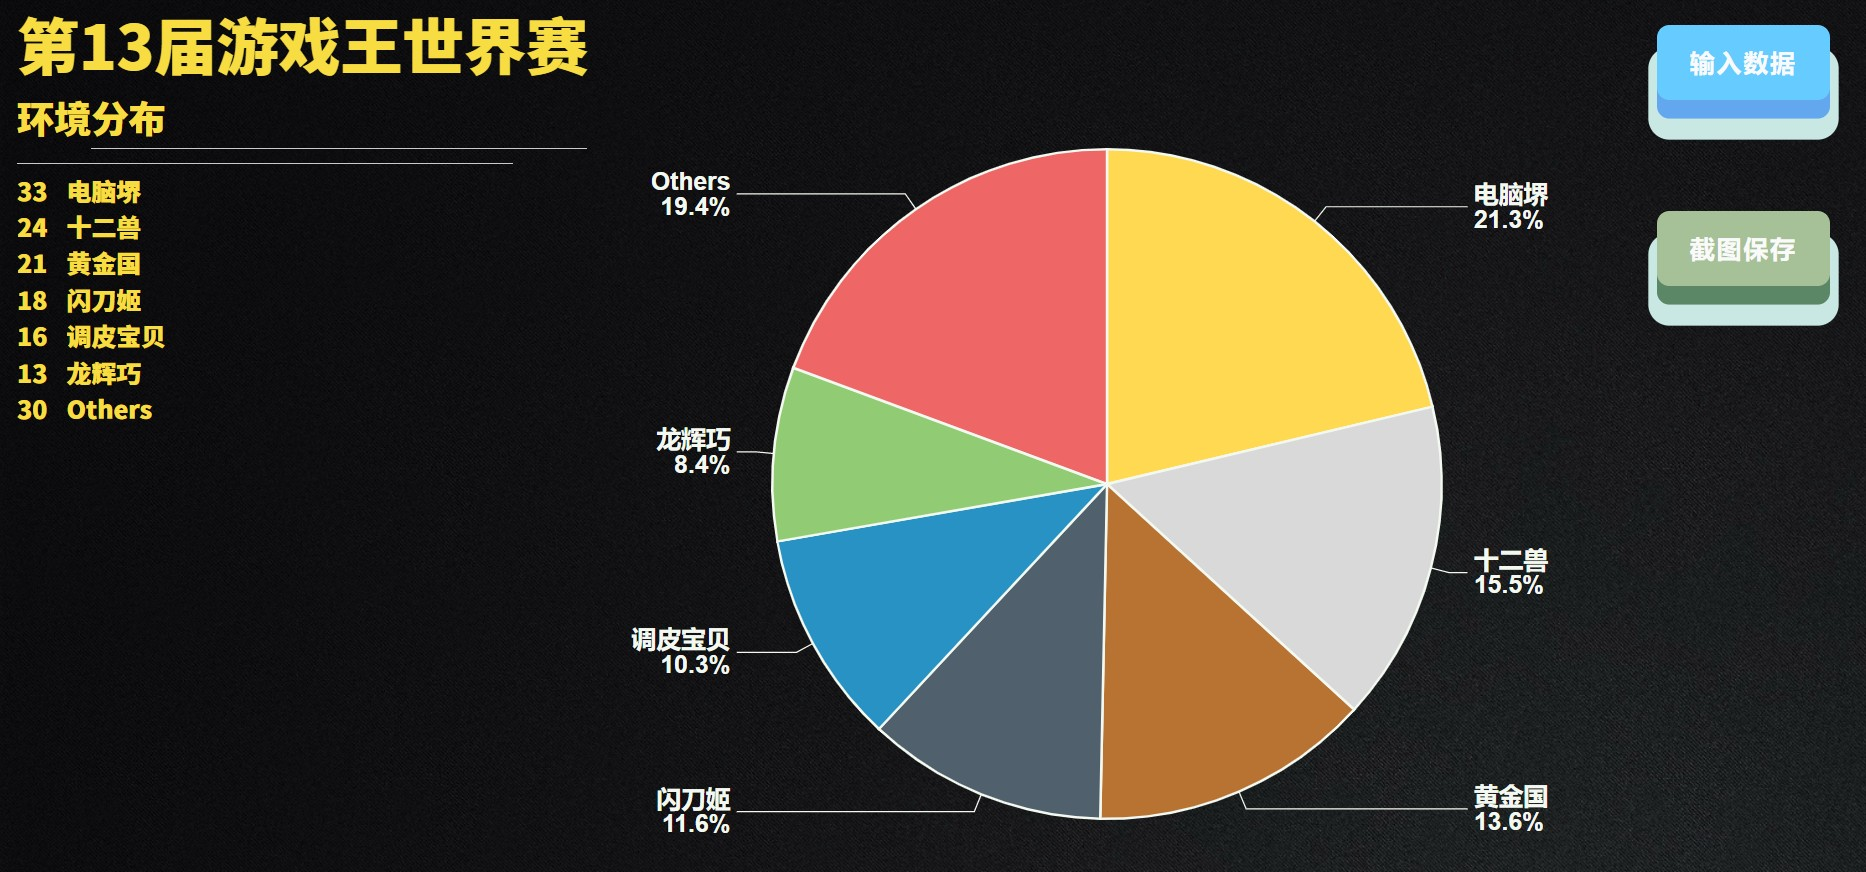
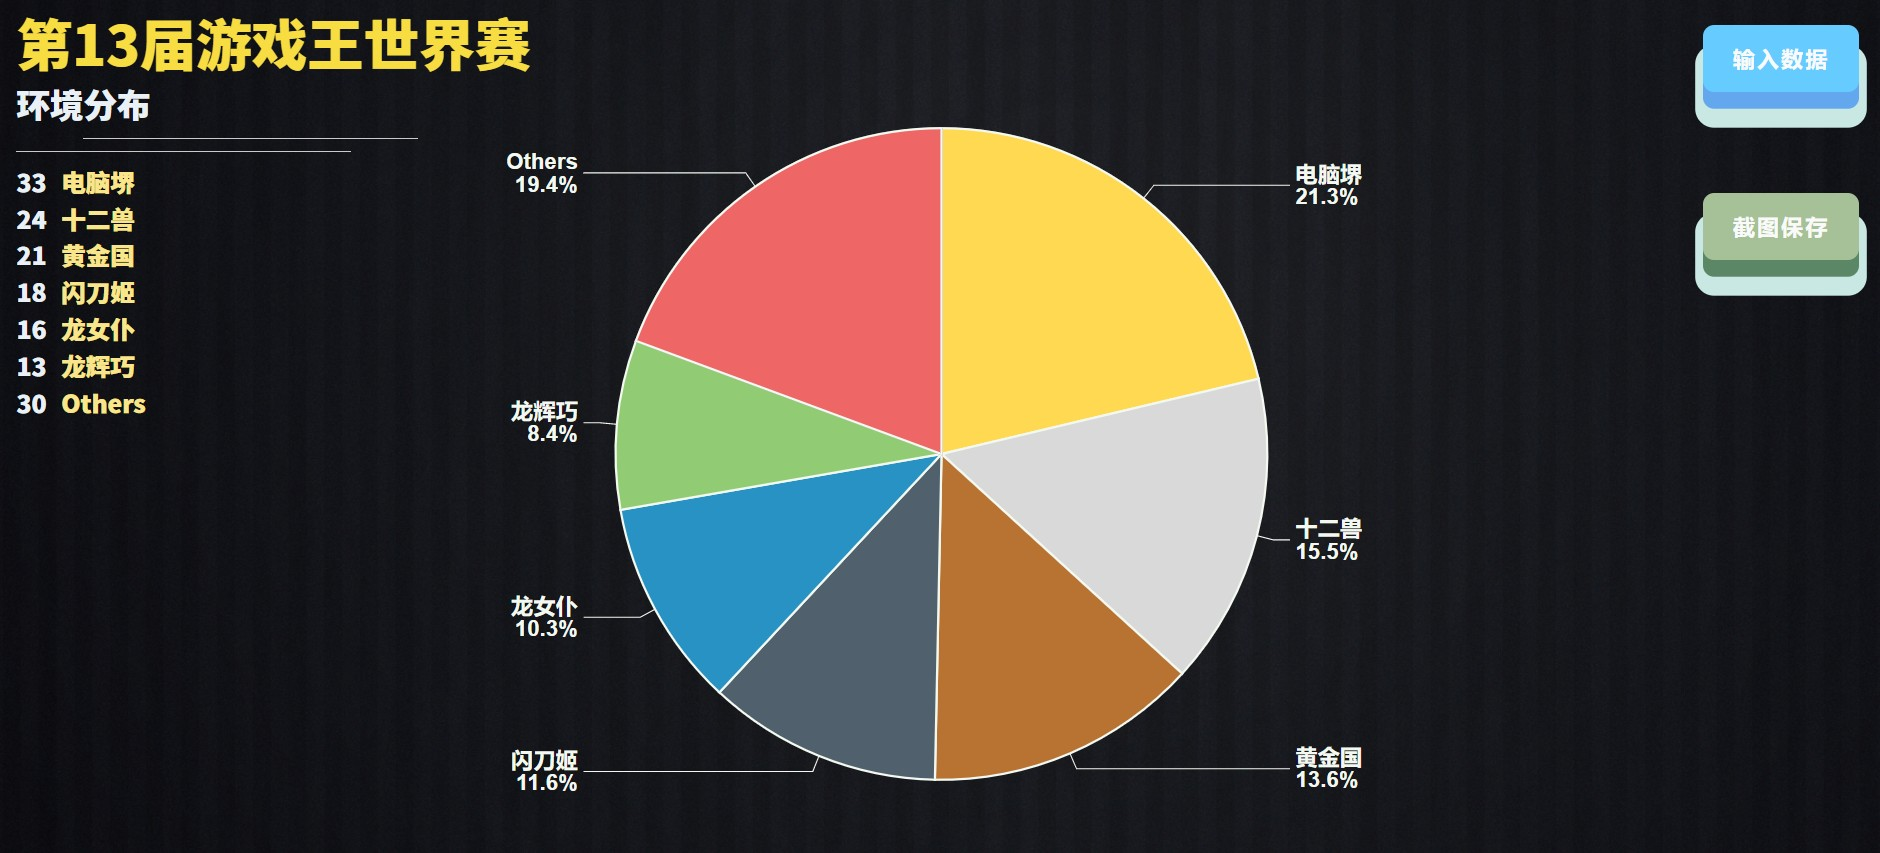
update UI

diff --git a/docs/js/app.acf1a593.js b/docs/js/app.acf1a593.js
@@ -1,0 +1,2 @@
+(function(e){function t(t){for(var i,r,o=t[0],s=t[1],c=t[2],d=0,f=[];d<o.length;d++)r=o[d],Object.prototype.hasOwnProperty.call(l,r)&&l[r]&&f.push(l[r][0]),l[r]=0;for(i in s)Object.prototype.hasOwnProperty.call(s,i)&&(e[i]=s[i]);u&&u(t);while(f.length)f.shift()();return n.push.apply(n,c||[]),a()}function a(){for(var e,t=0;t<n.length;t++){for(var a=n[t],i=!0,o=1;o<a.length;o++){var s=a[o];0!==l[s]&&(i=!1)}i&&(n.splice(t--,1),e=r(r.s=a[0]))}return e}var i={},l={app:0},n=[];function r(t){if(i[t])return i[t].exports;var a=i[t]={i:t,l:!1,exports:{}};return e[t].call(a.exports,a,a.exports,r),a.l=!0,a.exports}r.m=e,r.c=i,r.d=function(e,t,a){r.o(e,t)||Object.defineProperty(e,t,{enumerable:!0,get:a})},r.r=function(e){"undefined"!==typeof Symbol&&Symbol.toStringTag&&Object.defineProperty(e,Symbol.toStringTag,{value:"Module"}),Object.defineProperty(e,"__esModule",{value:!0})},r.t=function(e,t){if(1&t&&(e=r(e)),8&t)return e;if(4&t&&"object"===typeof e&&e&&e.__esModule)return e;var a=Object.create(null);if(r.r(a),Object.defineProperty(a,"default",{enumerable:!0,value:e}),2&t&&"string"!=typeof e)for(var i in e)r.d(a,i,function(t){return e[t]}.bind(null,i));return a},r.n=function(e){var t=e&&e.__esModule?function(){return e["default"]}:function(){return e};return r.d(t,"a",t),t},r.o=function(e,t){return Object.prototype.hasOwnProperty.call(e,t)},r.p="/ygo-pie/";var o=window["webpackJsonp"]=window["webpackJsonp"]||[],s=o.push.bind(o);o.push=t,o=o.slice();for(var c=0;c<o.length;c++)t(o[c]);var u=s;n.push([0,"chunk-vendors"]),a()})({0:function(e,t,a){e.exports=a("56d7")},"56d7":function(e,t,a){"use strict";a.r(t);a("f4f9"),a("450d");var i=a("c2cc"),l=a.n(i),n=(a("6611"),a("e772")),r=a.n(n),o=(a("eca7"),a("3787")),s=a.n(o),c=(a("1f1a"),a("4e4b")),u=a.n(c),d=(a("10cb"),a("f3ad")),f=a.n(d),p=(a("1951"),a("eedf")),b=a.n(p),v=(a("425f"),a("4105")),m=a.n(v),h=(a("a7cc"),a("df33")),k=a.n(h),g=(a("e260"),a("e6cf"),a("cca6"),a("a79d"),a("2b0e")),y=function(){var e=this,t=e.$createElement,a=e._self._c||t;return a("div",{attrs:{id:"app"}},[a("pie")],1)},D=[],T=function(){var e=this,t=e.$createElement,a=e._self._c||t;return a("div",{staticClass:"pie"},[a("div",{attrs:{id:"pic-node"}},[a("section",{staticClass:"info"},[a("h1",{staticClass:"info-title"},[e._v(e._s(e.formData.mainTitle))]),a("h2",{staticClass:"sub-title"},[e._v(e._s(e.formData.subTitle))]),a("hr",{staticStyle:{width:"300px",margin:"0 0 10px 60px"}}),a("hr",{staticStyle:{width:"300px",margin:"0 0 10px 0"}}),e._l(this.option.series[0].data,(function(t,i){return a("ul",{key:i,staticClass:"decks"},[a("div",{staticClass:"deck-item"},[a("span",{staticClass:"deck-num"},[e._v(e._s(t.value))]),e._v(e._s(t.name)+" ")])])}))],2),a("v-chart",{staticClass:"chart",attrs:{option:e.option}})],1),a("el-dialog",{staticClass:"pie-dialog",attrs:{title:"请输入数据",visible:e.dialogVisible,width:"80%",center:""},on:{"update:visible":function(t){e.dialogVisible=t}}},[a("el-form",{ref:"formData",staticClass:"pie-form",attrs:{model:e.formData,"label-width":"130px",rules:e.rules,size:"mini"}},[a("el-form-item",{attrs:{label:"赛事标题名称",prop:"mainTitle"}},[a("el-input",{model:{value:e.formData.mainTitle,callback:function(t){e.$set(e.formData,"mainTitle",t)},expression:"formData.mainTitle"}})],1),a("el-form-item",{attrs:{label:"副标题"}},[a("el-input",{model:{value:e.formData.subTitle,callback:function(t){e.$set(e.formData,"subTitle",t)},expression:"formData.subTitle"}})],1),e._l(e.formData.decks,(function(t,i){return a("div",{key:t.key,staticClass:"deck-list"},[a("el-form-item",{attrs:{label:"卡组 "+(i+1)+" 类型",prop:"decks."+i+".deckType",rules:e.rules.deckType}},[a("el-select",{attrs:{"allow-create":"",filterable:"","default-first-option":"",placeholder:"选择卡组，可查询自定义"},model:{value:t.deckType,callback:function(a){e.$set(t,"deckType","string"===typeof a?a.trim():a)},expression:"deck.deckType"}},e._l(e.deckOptions,(function(e){return a("el-option",{key:e.value,attrs:{label:e.label,value:e.value}})})),1)],1),a("el-form-item",{attrs:{label:"卡组 "+(i+1)+" 数量",prop:"decks."+i+".deckNum",rules:e.rules.deckNum}},[a("el-input",{staticClass:"deck-input",attrs:{placeholder:"请输入数量"},model:{value:t.deckNum,callback:function(a){e.$set(t,"deckNum",e._n(a))},expression:"deck.deckNum"}}),a("el-button",{attrs:{type:"danger"},on:{click:function(a){return a.preventDefault(),e.removeDeck(t)}}},[e._v("删除")])],1)],1)})),a("div",{staticClass:"btn-box"},[a("el-button",{attrs:{type:"primary"},on:{click:e.addDeck}},[e._v("新增卡组")]),a("el-button",{staticClass:"btn-right",attrs:{type:"success"},on:{click:function(t){return e.submitForm("formData")}}},[e._v("提交")])],1)],2)],1),a("el-dialog",{staticClass:"pic-dialog",attrs:{title:"截图预览",visible:e.picDialogVisible,width:"90%",center:""},on:{"update:visible":function(t){e.picDialogVisible=t}}},[a("div",{attrs:{id:"pic-result"}}),a("div",{staticClass:"btn-box"},[a("el-button",{attrs:{type:"primary"},on:{click:function(t){e.picDialogVisible=!1}}},[e._v("再改改")]),a("el-button",{staticClass:"btn-right",attrs:{type:"success"},on:{click:e.savePic}},[e._v("保存图片")])],1)]),a("a",{staticClass:"bounce-btn",on:{click:function(t){e.dialogVisible=!0}}},[a("span",[e._v("输入数据")])]),a("a",{staticClass:"save-btn",on:{click:e.preview}},[a("span",[e._v("截图保存")])])],1)},w=[],O=(a("b0c0"),a("b680"),a("a434"),a("159b"),a("4e82"),a("70b0")),C=a.n(O),_=a("21a6"),x={name:"Pie",data:function(){var e=this,t=function(e,t,a){""===t||void 0===t?a(new Error("数量不能为空")):/\D/.test(t)?a(new Error("请输入数字")):t<=0?a(new Error("数量应大于0")):a()},a=function(t,a,i){""===a||void 0===a?i(new Error("卡组不能为空")):e.isDeckTypeEqual(a)?i(new Error("卡组已经存在")):i()};return{dialogVisible:!1,picDialogVisible:!1,typeCount:0,formData:{mainTitle:"第13届游戏王世界赛",subTitle:"环境分布",decks:[{deckType:"",deckNum:1,key:Date.now()}],others:[{deckType:"",deckNum:1,key:Date.now()}]},rules:{mainTitle:[{required:!0,message:"请输入标题名",trigger:"blur"}],deckType:[{required:!0,message:"请输入卡组名",trigger:"blur"},{type:"string",message:"请输入字符串",trigger:"blur"},{validator:a,trigger:"blur"}],deckNum:[{required:!0,message:"请输入卡组数量",trigger:"blur"},{type:"number",message:"请输入数字",trigger:"blur"},{validator:t,trigger:"blur"}]},deckOptions:[{value:"Others",label:"Others"},{value:"电脑堺",label:"电脑堺"},{value:"铁兽战线",label:"铁兽战线"},{value:"影依",label:"影依"},{value:"码语者",label:"码语者"},{value:"龙女仆",label:"龙女仆"},{value:"雷龙",label:"雷龙"},{value:"@火灵天星",label:"@火灵天星"},{value:"十二兽",label:"十二兽"},{value:"黄金国",label:"黄金国"},{value:"闪刀姬",label:"闪刀姬"},{value:"自奏圣乐",label:"自奏圣乐"},{value:"龙辉巧",label:"龙辉巧"},{value:"幻影骑士团",label:"幻影骑士团"},{value:"魔救",label:"魔救"},{value:"魔术师",label:"魔术师"},{value:"METABEAT",label:"METABEAT"},{value:"电子龙",label:"电子龙"},{value:"调皮宝贝",label:"调皮宝贝"},{value:"抒情歌鸲",label:"抒情歌鸲"},{value:"英雄",label:"英雄"},{value:"神数",label:"神数"},{value:"恩底弥翁",label:"恩底弥翁"},{value:"转生炎兽",label:"转生炎兽"}],option:{series:[{name:"Deck Info",type:"pie",radius:"90%",center:["50%","50%"],data:[{value:33,name:"电脑堺"},{value:24,name:"十二兽"},{value:21,name:"黄金国"},{value:18,name:"闪刀姬"},{value:16,name:"龙女仆"},{value:13,name:"龙辉巧"},{value:30,name:"Others"}],label:{position:"outer",alignTo:"labelLine",bleedMargin:0,color:"#f3f9f1",fontSize:20,fontWeight:"bold",fontFamily:"Helvetica",formatter:function(e){return e.name+"\n"+e.percent.toFixed(1)+"%"}},labelLine:{lineStyle:{color:"#f3f9f1"}},emphasis:{itemStyle:{shadowBlur:10,shadowOffsetX:0,shadowColor:"rgba(0, 0, 0, 0.5)",borderWidth:2,borderColor:"#f3f9f1"}},itemStyle:{borderWidth:2,borderColor:"#f3f9f1"}}],color:["#ffd951","#d9d9d9","#b87333","#50616d","#2792c3","#91cc75","#ee6666","#e0ebaf","#cc7eb1","#89c3eb","#bbbcde","#fce2c4","#f3bf88","#7ebea5","#028760","#f8b500","#698aab","#e95295","#d4dcda","#badcad","#0094c8","#aa96da","#11999e","#f6416c","#444f5a","#f07b3f","#ffcef3","#a9eee6","#dde7f2","#f73859","#fff6f6"]}}},mounted:function(){this.sortSelectOptions()},methods:{isDeckTypeEqual:function(e){this.typeCount=0;for(var t=0;t<this.formData.decks.length;t++)e===this.formData.decks[t].deckType&&(this.typeCount+=1);if(this.typeCount>=2)return this.typeCount=0,!0},removeDeck:function(e){var t=this.formData.decks.indexOf(e);-1!==t&&this.formData.decks.splice(t,1)},addDeck:function(){this.formData.decks.push({deckType:"",deckNum:1,key:Date.now()})},submitForm:function(e){var t=this;this.$refs[e].validate((function(e){if(!e)return console.log("error submit!!"),!1;t.option.series[0].data.length=0,t.formData.decks.forEach((function(e){var a={name:e.deckType,value:e.deckNum,key:Date.now()};t.option.series[0].data.push(a)})),t.sortDecks(),t.dialogVisible=!1}))},sortDecks:function(){var e=this.option.series[0].data;e.sort((function(e,t){return t.value-e.value}));for(var t=0;t<e.length;t++)if("Others"===e[t].name){var a=this.option.series[0].data.splice(t,1);return void this.option.series[0].data.push(a[0])}},sortSelectOptions:function(){this.deckOptions.sort((function(e,t){return e.value.localeCompare(t.value)}));for(var e=0;e<this.deckOptions.length;e++)if("Others"===this.deckOptions[e].value){var t=this.deckOptions.splice(e,1);return void this.deckOptions.unshift(t[0])}},preview:function(){this.picDialogVisible=!0,this.$nextTick((function(){var e=document.getElementById("pic-node"),t=document.getElementById("pic-result");t.innerHTML="",C.a.toPng(e).then((function(e){var a=new Image;a.src=e,t.appendChild(a)})).catch((function(e){console.error("oops, something went wrong!",e)}))}))},savePic:function(){C.a.toBlob(document.getElementById("pic-node")).then((function(e){Object(_["saveAs"])(e,"pie.png")}))}}},E=x,j=(a("787b"),a("2877")),S=Object(j["a"])(E,T,w,!1,null,"617ed926",null),P=S.exports,N={name:"App",components:{Pie:P}},V=N,$=Object(j["a"])(V,y,D,!1,null,null,null),M=$.exports,B=a("5c7f"),A=a("22b4"),q=a("49bb"),I=a("97ac");a("7371");g["default"].config.productionTip=!1,Object(A["a"])([q["a"],I["a"]]),g["default"].component("v-chart",B["a"]),g["default"].use(k.a),g["default"].use(m.a),g["default"].use(b.a),g["default"].use(f.a),g["default"].use(u.a),g["default"].use(s.a),g["default"].use(r.a),g["default"].use(l.a),new g["default"]({render:function(e){return e(M)}}).$mount("#app")},7371:function(e,t,a){},"787b":function(e,t,a){"use strict";a("8457")},8457:function(e,t,a){}});
+//# sourceMappingURL=app.acf1a593.js.map

diff --git a/src/components/Pie.vue b/src/components/Pie.vue
@@ -1,19 +1,21 @@
 <template>
   <div class="pie">
     <div id="pic-node">
-      <section class="info-area">
-        <div class="info">
-          <h1 class="info-title">{{ formData.mainTitle }}</h1>
-          <h2 class="sub-title">{{ formData.subTitle }}</h2>
-          <hr style="width: 400px; margin: 0 10% 10px 60px" />
-          <hr style="width: 400px; margin: 0 30% 10px 0" />
-          <ul v-for="(deck, index) in this.option.series[0].data" :key="index">
-            <li class="deck-item">
-              <span class="deck-num">{{ deck.value }}</span
-              >{{ deck.name }}
-            </li>
-          </ul>
-        </div>
+      <section class="info">
+        <h1 class="info-title">{{ formData.mainTitle }}</h1>
+        <h2 class="sub-title">{{ formData.subTitle }}</h2>
+        <hr style="width: 300px; margin: 0 0 10px 60px" />
+        <hr style="width: 300px; margin: 0 0 10px 0" />
+        <ul
+          class="decks"
+          v-for="(deck, index) in this.option.series[0].data"
+          :key="index"
+        >
+          <div class="deck-item">
+            <span class="deck-num">{{ deck.value }}</span
+            >{{ deck.name }}
+          </div>
+        </ul>
       </section>
 
       <v-chart class="chart" :option="option" />
@@ -210,6 +212,10 @@ export default {
       },
       deckOptions: [
         {
+          value: 'Others',
+          label: 'Others'
+        },
+        {
           value: '电脑堺',
           label: '电脑堺'
         },
@@ -234,8 +240,8 @@ export default {
           label: '雷龙'
         },
         {
-          value: '火灵天星',
-          label: '火灵天星'
+          value: '@火灵天星',
+          label: '@火灵天星'
         },
         {
           value: '十二兽',
@@ -250,8 +256,56 @@ export default {
           label: '闪刀姬'
         },
         {
-          value: 'Others',
-          label: 'Others'
+          value: '自奏圣乐',
+          label: '自奏圣乐'
+        },
+        {
+          value: '龙辉巧',
+          label: '龙辉巧'
+        },
+        {
+          value: '幻影骑士团',
+          label: '幻影骑士团'
+        },
+        {
+          value: '魔救',
+          label: '魔救'
+        },
+        {
+          value: '魔术师',
+          label: '魔术师'
+        },
+        {
+          value: 'METABEAT',
+          label: 'METABEAT'
+        },
+        {
+          value: '电子龙',
+          label: '电子龙'
+        },
+        {
+          value: '调皮宝贝',
+          label: '调皮宝贝'
+        },
+        {
+          value: '抒情歌鸲',
+          label: '抒情歌鸲'
+        },
+        {
+          value: '英雄',
+          label: '英雄'
+        },
+        {
+          value: '神数',
+          label: '神数'
+        },
+        {
+          value: '恩底弥翁',
+          label: '恩底弥翁'
+        },
+        {
+          value: '转生炎兽',
+          label: '转生炎兽'
         }
       ],
       option: {
@@ -266,7 +320,7 @@ export default {
               { value: 24, name: '十二兽' },
               { value: 21, name: '黄金国' },
               { value: 18, name: '闪刀姬' },
-              { value: 16, name: '调皮宝贝' },
+              { value: 16, name: '龙女仆' },
               { value: 13, name: '龙辉巧' },
               { value: 30, name: 'Others' }
             ],
@@ -336,6 +390,9 @@ export default {
       }
     }
   },
+  mounted () {
+    this.sortSelectOptions()
+  },
   methods: {
     isDeckTypeEqual (value) {
       this.typeCount = 0
@@ -392,8 +449,21 @@ export default {
 
       for (let i = 0; i < decks.length; i++) {
         if (decks[i].name === 'Others') {
-          const otherItem = this.option.series[0].data.splice(i, 1)
-          this.option.series[0].data.push(otherItem[0])
+          const othersItem = this.option.series[0].data.splice(i, 1)
+          this.option.series[0].data.push(othersItem[0])
+          return
+        }
+      }
+    },
+    sortSelectOptions () {
+      this.deckOptions.sort((a, b) => {
+        return a.value.localeCompare(b.value)
+      })
+
+      for (let i = 0; i < this.deckOptions.length; i++) {
+        if (this.deckOptions[i].value === 'Others') {
+          const othersItem = this.deckOptions.splice(i, 1)
+          this.deckOptions.unshift(othersItem[0])
           return
         }
       }
@@ -426,21 +496,22 @@ export default {
 @import url('https://fonts.googleapis.com/css2?family=Noto+Sans+SC:wght@900&display=swap');
 
 .pie {
-  height: 900px;
+  min-height: 800px;
   position: relative;
   background: url(../../public/background.jpg);
 }
 
 .chart {
   width: 900px;
-  height: 600px;
+  height: 650px;
   position: absolute;
-  top: 100px;
-  left: 450px;
+  top: 90px;
+  left: 400px;
 }
 
 #pic-node {
-  height: 900px;
+  min-width: 1500px;
+  min-height: 800px;
   background: url(../../public/background.jpg);
 }
 
@@ -532,41 +603,46 @@ export default {
   transition: all 0.1s;
 }
 
-.info-area {
-  position: relative;
-}
-
 .info {
-  position: absolute;
   padding: 20px 0 10px 20px;
 }
 
 .info-title {
   font-size: 50px;
-  margin-bottom: 20px;
+  margin-bottom: 16px;
   color: #f7dd41;
   font-family: 'Noto Sans SC', sans-serif;
+  font-weight: 600;
 }
 
 .sub-title {
   display: inline-block;
   font-size: 30px;
-  margin-bottom: 10px;
-  color: #f7dd41;
+  margin-bottom: 16px;
+  color: #e9f1f6;
   font-family: 'Noto Sans SC', sans-serif;
+  font-weight: 600;
+}
+
+.decks {
+  min-width: 100px;
 }
 
 .deck-item {
-  display: inline-block;
-  font-size: 20px;
-  margin-bottom: 10px;
-  color: #f7dd41;
+  min-width: 100px;
+  height: 30px;
+  line-height: 30px;
+  font-size: 22px;
+  margin-bottom: 3px;
+  color: #f8e58c;
   font-family: 'Noto Sans SC', sans-serif;
+  font-weight: 600;
 }
 
 .deck-num {
   display: inline-block;
   width: 40px;
+  color: #e9f1f6;
 }
 
 .deck-input {

diff --git a/docs/css/app.f78b50ea.css b/docs/css/app.f78b50ea.css
@@ -1,0 +1,1 @@
+@charset "utf-8";@import url(https://fonts.googleapis.com/css2?family=Noto+Sans+SC:wght@900&display=swap);.pie[data-v-617ed926]{min-height:800px;position:relative;background:url(../img/background.b0555058.jpg)}.chart[data-v-617ed926]{width:900px;height:650px;position:absolute;top:90px;left:400px}#pic-node[data-v-617ed926]{min-width:1500px;min-height:800px;background:url(../img/background.b0555058.jpg)}.bounce-btn[data-v-617ed926]{width:140px;height:60px;line-height:60px;background:#66cbff;color:#fafafa;display:block;text-decoration:none;border-radius:.5em;letter-spacing:.08em;font-size:20px;font-weight:600;font-family:Source Sans Pro,sans-serif;box-shadow:0 .75em 0 #63a7ee,0 1.25em 0 .35em #c9e8e3;text-align:center;position:absolute;top:30px;right:50px;transition:all .1s;cursor:pointer;-webkit-user-select:none;-moz-user-select:none;-ms-user-select:none;user-select:none}.bounce-btn[data-v-617ed926]:focus,.bounce-btn[data-v-617ed926]:hover{transition:all .25s;background:#fafafa;color:#66cbff;box-shadow:0 .75em 0 #c2c2c2,0 1.25em 0 .35em #c9e8e3}.bounce-btn[data-v-617ed926]:active{box-shadow:0 0 0 .35em #c9e8e3;transform:translateY(1.25em);transition:all .1s}.save-btn[data-v-617ed926]{width:140px;height:60px;line-height:60px;background:#a6c198;color:#fafafa;display:block;text-decoration:none;border-radius:.5em;letter-spacing:.08em;font-size:20px;font-weight:600;font-family:Source Sans Pro,sans-serif;box-shadow:0 .75em 0 #5b8767,0 1.25em 0 .35em #c9e8e3;text-align:center;position:absolute;top:180px;right:50px;transition:all .1s;cursor:pointer;-webkit-user-select:none;-moz-user-select:none;-ms-user-select:none;user-select:none}.save-btn[data-v-617ed926]:focus,.save-btn[data-v-617ed926]:hover{transition:all .25s;background:#fafafa;color:#a6c198;box-shadow:0 .75em 0 #c2c2c2,0 1.25em 0 .35em #c9e8e3}.save-btn[data-v-617ed926]:active{box-shadow:0 0 0 .35em #c9e8e3;transform:translateY(1.25em);transition:all .1s}.info[data-v-617ed926]{padding:20px 0 10px 20px}.info-title[data-v-617ed926]{font-size:50px;color:#f7dd41}.info-title[data-v-617ed926],.sub-title[data-v-617ed926]{margin-bottom:16px;font-family:Noto Sans SC,sans-serif;font-weight:600}.sub-title[data-v-617ed926]{display:inline-block;font-size:30px;color:#e9f1f6}.decks[data-v-617ed926]{min-width:100px}.deck-item[data-v-617ed926]{min-width:100px;height:30px;line-height:30px;font-size:22px;margin-bottom:3px;color:#f8e58c;font-family:Noto Sans SC,sans-serif;font-weight:600}.deck-num[data-v-617ed926]{display:inline-block;width:40px;color:#e9f1f6}.deck-input[data-v-617ed926]{width:50%}.btn-box[data-v-617ed926]{margin-top:40px}.btn-right[data-v-617ed926]{float:right}.pic-dialog[data-v-617ed926] .el-dialog__body #pic-result img{width:100%}.pic-dialog[data-v-617ed926] .el-dialog__title,.pie-dialog[data-v-617ed926] .el-dialog__title{font-size:30px;font-weight:600;color:#5b8767;text-shadow:1px 0 1px #ccc,0 1px 1px #eee,2px 1px 1px #ccc,1px 2px 1px #eee,3px 2px 1px #ccc,2px 3px 1px #eee,4px 3px 1px #ccc,3px 4px 1px #eee,5px 4px 1px #ccc,4px 5px 1px #eee,6px 5px 1px #ccc,5px 6px 1px #eee,7px 6px 1px #ccc}.pie-dialog[data-v-617ed926] .el-form-item__content{margin-left:130px!important}.pie-form[data-v-617ed926] .el-input{margin-right:5%!important}.deck-list[data-v-617ed926] .el-form-item{display:inline-block}html{background-color:#fff;color:#000;font-size:12px}blockquote,body,button,dd,dl,fieldset,figure,form,h1,h2,h3,h4,h5,h6,input,legend,ol,p,pre,td,textarea,th,ul,xmp{margin:0;padding:0}body,button,code,input,kbd,pre,samp,select,textarea,tt,xmp{line-height:1.5;font-family:tahoma,arial,Hiragino Sans GB,simsun,sans-serif}big,button,h1,h2,h3,h4,h5,h6,input,select,small,textarea{font-size:100%}h1,h2,h3,h4,h5,h6{font-family:tahoma,arial,Hiragino Sans GB,微软雅黑,simsun,sans-serif}b,h1,h2,h3,h4,h5,h6,strong{font-weight:400}address,cite,dfn,em,i,optgroup,var{font-style:normal}table{border-collapse:collapse;border-spacing:0;text-align:left}caption,th{text-align:inherit}menu,ol,ul{list-style:none}fieldset,img{border:0}button,img,input,object,select,textarea{vertical-align:middle}article,aside,details,figcaption,figure,footer,header,hgroup,menu,nav,section{display:block}audio,canvas,video{display:inline-block;*display:inline;*zoom:1}blockquote:after,blockquote:before,q:after,q:before{content:"\0020"}textarea{overflow:auto;resize:vertical}a,button,input,select,textarea{outline:0 none;border:none}button::-moz-focus-inner,input::-moz-focus-inner{padding:0;border:0}mark{background-color:transparent}a,del,ins,s,u{text-decoration:none}sub,sup{vertical-align:baseline}html{overflow-x:hidden;height:100%;font-size:50px;-webkit-tap-highlight-color:transparent}body{font-family:Arial,Microsoft Yahei,Helvetica Neue,Helvetica,sans-serif;color:#333;font-size:.28em;line-height:1;-webkit-text-size-adjust:none}hr{height:.02rem;margin:.1rem 0;border:medium none;border-top:.02rem solid #cacaca}a{color:#25a4bb;text-decoration:none}

diff --git a/docs/index.html b/docs/index.html
@@ -1,1 +1,25 @@
-<!DOCTYPE html><html lang=""><head><meta charset="utf-8"><meta http-equiv="X-UA-Compatible" content="IE=edge"><meta name="viewport" content="width=device-width,initial-scale=1"><link rel="icon" href="/ygo-pie/favicon.ico"><title>ygo-pie</title><link href="/ygo-pie/css/app.36e49c07.css" rel="preload" as="style"><link href="/ygo-pie/css/chunk-vendors.18cd012b.css" rel="preload" as="style"><link href="/ygo-pie/js/app.f62c499c.js" rel="preload" as="script"><link href="/ygo-pie/js/chunk-vendors.0868d8e6.js" rel="preload" as="script"><link href="/ygo-pie/css/chunk-vendors.18cd012b.css" rel="stylesheet"><link href="/ygo-pie/css/app.36e49c07.css" rel="stylesheet"></head><body><noscript><strong>We're sorry but ygo-pie doesn't work properly without JavaScript enabled. Please enable it to continue.</strong></noscript><div id="app"></div><script src="/ygo-pie/js/chunk-vendors.0868d8e6.js"></script><script src="/ygo-pie/js/app.f62c499c.js"></script></body></html>
+<!DOCTYPE html>
+<html lang="">
+
+<head>
+    <meta charset="utf-8">
+    <meta http-equiv="X-UA-Compatible" content="IE=edge">
+    <meta name="viewport" content="width=device-width,initial-scale=1">
+    <link rel="icon" href="/ygo-pie/favicon.ico">
+    <title>YGO Pie</title>
+    <link href="/ygo-pie/css/app.f78b50ea.css" rel="preload" as="style">
+    <link href="/ygo-pie/css/chunk-vendors.18cd012b.css" rel="preload" as="style">
+    <link href="/ygo-pie/js/app.acf1a593.js" rel="preload" as="script">
+    <link href="/ygo-pie/js/chunk-vendors.0868d8e6.js" rel="preload" as="script">
+    <link href="/ygo-pie/css/chunk-vendors.18cd012b.css" rel="stylesheet">
+    <link href="/ygo-pie/css/app.f78b50ea.css" rel="stylesheet">
+</head>
+
+<body><noscript><strong>We're sorry but ygo-pie doesn't work properly without JavaScript enabled. Please enable it to
+            continue.</strong></noscript>
+    <div id="app"></div>
+    <script src="/ygo-pie/js/chunk-vendors.0868d8e6.js"></script>
+    <script src="/ygo-pie/js/app.acf1a593.js"></script>
+</body>
+
+</html>

diff --git a/src/router/index.js b/src/router/index.js
@@ -8,7 +8,10 @@ const routes = [
   {
     path: '/',
     name: 'Home',
-    component: Home
+    component: Home,
+    meta: {
+      title: 'YGO Pie'
+    }
   },
   {
     path: '/about',
